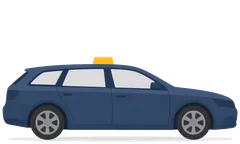
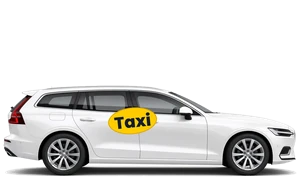
Bilar: vita taxibilar med gul skylt, Special heter Miljöbil, ny biltyp Executive

diff --git a/TaxiData/admin.html b/TaxiData/admin.html
@@ -118,10 +118,10 @@
     .bk-info { color: var(--c-4a5568); font-size: calc(12px * var(--font-scale, 1)); display: flex; flex-direction: column; gap: 4px; margin-top: 6px; overflow-wrap: anywhere; }
     .bk-edit { width: 100%; margin-top: 12px; }
     .bk-foot { padding: 0 16px; font-size: calc(12px * var(--font-scale, 1)); color: var(--c-718096); }
-    .bk-types { display: grid; grid-template-columns: repeat(4, minmax(0, 1fr)); gap: 6px; }
+    .bk-types { display: grid; grid-template-columns: repeat(3, minmax(0, 1fr)); gap: 6px; }
     .bk-type { display: flex !important; flex-direction: column; align-items: center; gap: 2px; padding: 6px 2px; border: 2px solid var(--c-e2e8f0); border-radius: 8px; cursor: pointer; margin: 0 !important; text-align: center; }
     .bk-type input { position: absolute; opacity: 0; width: 1px !important; height: 1px; }
-    .bk-type img { width: 100%; max-width: 64px; height: auto; }
+    .bk-type img { width: 100%; max-width: 80px; height: auto; }
     .bk-type span { font-size: calc(11px * var(--font-scale, 1)); color: var(--primary); overflow-wrap: anywhere; }
     .bk-type:has(input:checked) { border-color: var(--primary-bg); background: var(--c-e6f0fa); }
     .bk-form .form-row .form-group { min-width: 0; }
@@ -155,7 +155,7 @@
   </div>
 
   <script src="serverstatus.js?v=20261026tm1"></script>
-  <script src="demo.js?v=20261029h"></script>
+  <script src="demo.js?v=20261029j"></script>
   <script src="verkstad-admin.js?v=20261028nm1"></script>
   <script src="profilbild.js?v=zdm1"></script>
   <script src="onskemal-admin.js?v=20261028nm1"></script>
@@ -1158,14 +1158,15 @@
     // Uberavgift, adm.avgift, inpassering och taxiavgift visas som Avgifter. Bränslepriserna är inkl. moms och räknas om till exkl. moms.
     // Saknas resdata kan ägaren fylla i intäkt per år (exkl. moms) på bilen.
     const BK = { moms: 6, uber: 25, uberIn: 26, adm: 1.3, inpass: 2500, provision: 37, semester: 13, agavg: 31.42, bransleMoms: 25 };
-    const BK_TYPES = { sedan: 'Personbil', kombi: 'Kombi', storbil: 'Storbil', special: 'Specialfordon' };
+    const BK_TYPES = { sedan: 'Personbil', kombi: 'Kombi', storbil: 'Storbil', miljobil: 'Miljöbil', executive: 'Executive' };
+    const BK_IMG_V = '20261029j';   // ändra när bilbilderna byts, så att gamla bilder inte visas från cachen
     let openCars = {};     // bilens id -> uträkningen visas
     function carType(c) {
       const k = c.kalkyl || {};
-      if (k.bildtyp) return k.bildtyp;
-      if (k.specialfordon) return 'special';
+      if (k.bildtyp === 'special') return 'miljobil';   // gamla namnet
+      if (BK_TYPES[k.bildtyp]) return k.bildtyp;
       const cat = c.kategorier || [];
-      return cat.includes('Storbil') ? 'storbil' : cat.includes('Kombi') ? 'kombi' : 'sedan';
+      return cat.includes('Storbil') ? 'storbil' : cat.includes('Kombi') ? 'kombi' : cat.includes('Miljö') ? 'miljobil' : 'sedan';
     }
     function kr0(n) { return n == null || isNaN(n) ? '–' : Math.round(n).toLocaleString('sv-SE').replace(/\u2212/g, '−') + ' kr'; }
     function krSign(n) { return n == null ? '–' : (n > 0 ? '+' : n < 0 ? '−' : '') + Math.abs(Math.round(n)).toLocaleString('sv-SE') + ' kr'; }
@@ -1299,7 +1300,7 @@
         const open = !!openCars[c.id], t = carType(c);
         return `<div class="bk-row${open ? ' open' : ''}" data-id="${c.id}">
           <div class="bk-head" onclick="toggleCar(${c.id})" role="button" aria-expanded="${open}">
-            <img class="bk-img" src="bil-${t}.webp" alt="${BK_TYPES[t]}" width="64" height="38">
+            <img class="bk-img" src="bil-${t}.webp?v=${BK_IMG_V}" alt="${BK_TYPES[t]}" width="64" height="38">
             <div class="bk-id"><b>${esc(c.bilnummer)}</b><span>${c.regnr ? esc(c.regnr) : 'Reg.nr saknas'}</span></div>
             <div class="bk-res ${r.vinst == null ? '' : r.vinst >= 0 ? 'bk-pos' : 'bk-neg'}">${r.vinst == null ? '<span class="bk-na">Intäkt saknas</span>' : krSign(r.vinst)}</div>
             <span class="bk-chev">${open ? '▾' : '▸'}</span>
@@ -1445,7 +1446,7 @@ ${renderBildtypPicker(c)}
     function renderBildtypPicker(c) {
       const t = carType(c);
       return `<div class="form-group"><label>Bildtyp (bild i listan)</label><div class="bk-types">
-        ${Object.keys(BK_TYPES).map(k => `<label class="bk-type"><input type="radio" name="c-bt" value="${k}" ${t === k ? 'checked' : ''}><img src="bil-${k}.webp" alt="" width="64" height="38"><span>${k === 'special' ? 'Special' : BK_TYPES[k]}</span></label>`).join('')}
+        ${Object.keys(BK_TYPES).map(k => `<label class="bk-type"><input type="radio" name="c-bt" value="${k}" ${t === k ? 'checked' : ''}><img src="bil-${k}.webp?v=${BK_IMG_V}" alt="" width="64" height="38"><span>${BK_TYPES[k]}</span></label>`).join('')}
       </div>
       <label class="radio-l"><input type="checkbox" id="c-special" ${(c.kalkyl || {}).specialfordon ? 'checked' : ''}> Specialfordon (t.ex. rullstolsbil)</label></div>`;
     }

diff --git a/TaxiData/demo.js b/TaxiData/demo.js
@@ -135,8 +135,14 @@
             kalkyl: { bildtyp: 'sedan', livslangd_ar: 5, inkopspris: 380000, rantor_ar: 8000, skatt_ar: 2500, service_ar: 15000, taxiavg_ar: 60000, forsakring_ar: 22000, tvatt_ar: 5000, mil_ar: 7000, intakt_mode: 'data' },
             intakt: { from: yr(365), to: idag, dagar: 365, inkort: 520000, uber: 20000, bom: 1500, km: 52000, kordagar: 220, forare: 2, pass: 230, inpass_man: 8, forsta: yr(365), sista: idag } },
           { id: 3, bilnummer: '9003', modell: 'Demobuss', regnr: 'GHI 789', kategorier: ['Storbil'], fuel: 'diesel', cons: 0.7, price_mode: 'auto', calc: { mode: 'auto', kr_per_mil: 13.1 },
-            kalkyl: { bildtyp: 'special', specialfordon: true, livslangd_ar: 6, inkopspris: 650000, forsakring_ar: 30000, mil_ar: 6000, intakt_mode: 'manual', intakt_ar: 700000 },
-            intakt: { from: yr(365), to: idag, dagar: 365, inkort: 0, uber: 0, bom: 0, km: 0, kordagar: 0, forare: 0, pass: 0, inpass_man: 0 } }] };
+            kalkyl: { bildtyp: 'storbil', specialfordon: true, livslangd_ar: 6, inkopspris: 650000, forsakring_ar: 30000, mil_ar: 6000, intakt_mode: 'manual', intakt_ar: 700000 },
+            intakt: { from: yr(365), to: idag, dagar: 365, inkort: 0, uber: 0, bom: 0, km: 0, kordagar: 0, forare: 0, pass: 0, inpass_man: 0 } },
+          { id: 4, bilnummer: '9004', modell: 'Exempelbil El', regnr: 'JKL 012', kategorier: ['Miljö', 'Sedan'], fuel: 'el', cons: 1.6, price_mode: 'auto', calc: { mode: 'auto', kr_per_mil: 2.9 },
+            kalkyl: { bildtyp: 'miljobil', livslangd_ar: 5, inkopspris: 450000, rantor_ar: 9000, skatt_ar: 1500, service_ar: 9000, taxiavg_ar: 60000, forsakring_ar: 23000, tvatt_ar: 5000, mil_ar: 9000, intakt_mode: 'data' },
+            intakt: { from: yr(365), to: idag, dagar: 365, inkort: 980000, uber: 60000, bom: 3000, km: 81000, kordagar: 290, forare: 3, pass: 300, inpass_man: 12, forsta: yr(365), sista: idag } },
+          { id: 5, bilnummer: '9005', modell: 'Exempel SUV', regnr: 'MNO 345', kategorier: ['Storbil'], fuel: 'laddhybrid', cons: 0.5, cons_el: 2.2, el_share: 40, price_mode: 'auto', calc: { mode: 'auto', kr_per_mil: 9.8 },
+            kalkyl: { bildtyp: 'executive', livslangd_ar: 4, inkopspris: 820000, rantor_ar: 22000, skatt_ar: 6000, service_ar: 20000, taxiavg_ar: 60000, forsakring_ar: 32000, tvatt_ar: 8000, mil_ar: 8000, intakt_mode: 'data' },
+            intakt: { from: yr(365), to: idag, dagar: 365, inkort: 760000, uber: 10000, bom: 2000, km: 60000, kordagar: 240, forare: 2, pass: 200, inpass_man: 9, forsta: yr(365), sista: idag } }] };
       }
       case 'car_model_makes': return [];
       case 'car_model_variants': return [];

diff --git a/TaxiData/changelog.js b/TaxiData/changelog.js
@@ -15,6 +15,9 @@
  *   Används i notisflödet ("5 min sedan"). Utan tid visas bara dagen ("i dag", "i går", "12/10").
  */
 window.CHANGELOG = [
+  { datum: '2026-10-29', id: '2026-10-29j', rader: [   // tid sätts när det går live
+    ['Förbättrat', 'Admin › Bilar har nya bilder: vita bilar med en gul taxiskylt på dörren. Biltypen Special heter nu Miljöbil (en vit elbil med ett grönt löv) och det finns en ny biltyp, Executive (en svart SUV). Bilar som hade Special har nu Miljöbil. Kryssrutan Specialfordon finns kvar som förut.', 'agare']
+  ] },
   { datum: '2026-10-29', id: '2026-10-29i', tid: '06:12', rader: [
     ['Nytt', 'Ankomster › Tåg: Mina tågnotiser. Välj vilka tåg du alltid vill ha notis om, till exempel snabbtågen från Stockholm, och bara de tider du jobbar, till exempel 17:00–05:00 måndag till fredag. Du får notis före ankomsten (till exempel 20 min före), när tåget blir försenat och om det ställs in. Notiserna kommer även när appen är stängd, om notiser är påslagna. Tåg som matchar får en liten klocka 🔔 i listan.'],
     ['Nytt', 'Admin › Chaufförer › Logg: ändringar i Mina tågnotiser syns under Notiser och bevakningar.', 'admin']

diff --git a/TaxiData/index.html b/TaxiData/index.html
@@ -154,7 +154,7 @@
   <script src="profilbild.js?v=zdm1"></script>
   <script src="forum.js?v=20261029fl1"></script>
   <script src="om-data.js?v=20261029d"></script>
-  <script src="changelog.js?v=20261029i"></script>
+  <script src="changelog.js?v=20261029j"></script>
   <script src="om.js?v=20261029tn2"></script>
   <script src="lonekoll.js?v=20261028sp1"></script>
   <script src="prognos.js?v=20261028x"></script>
